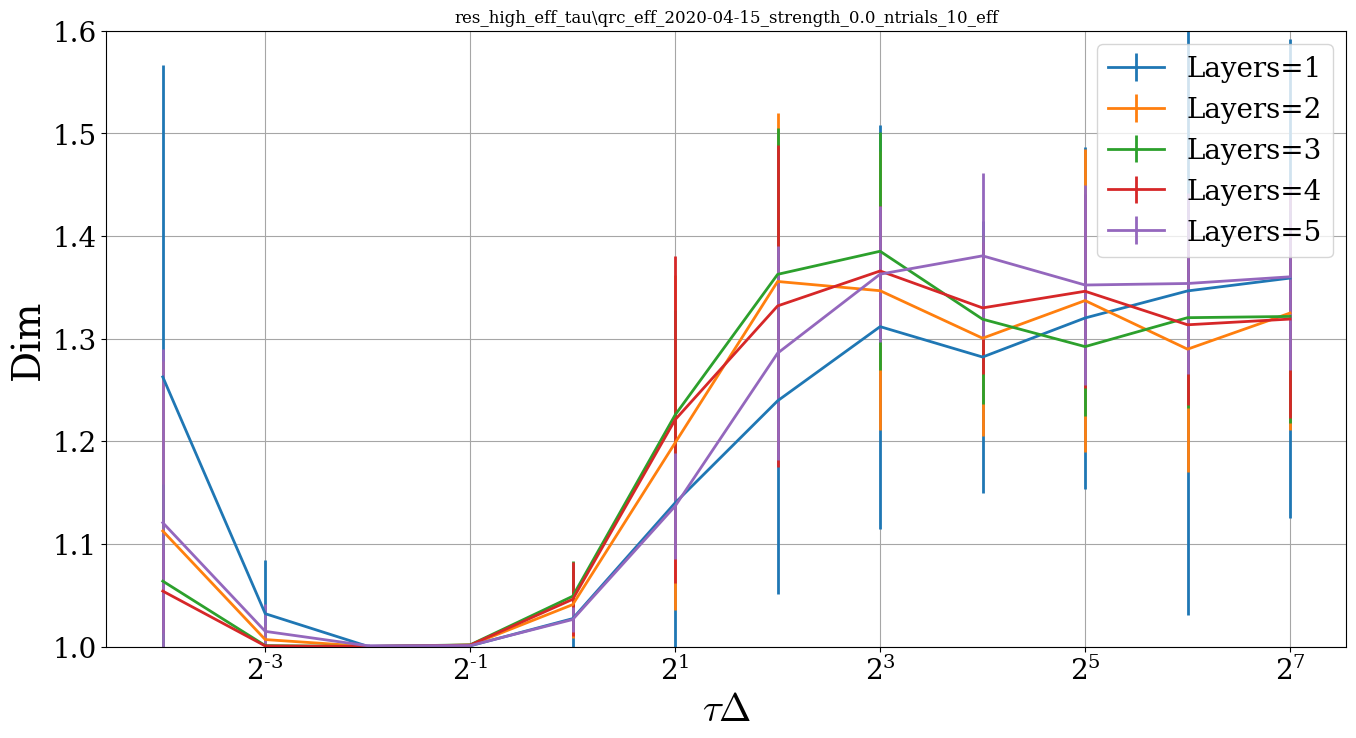
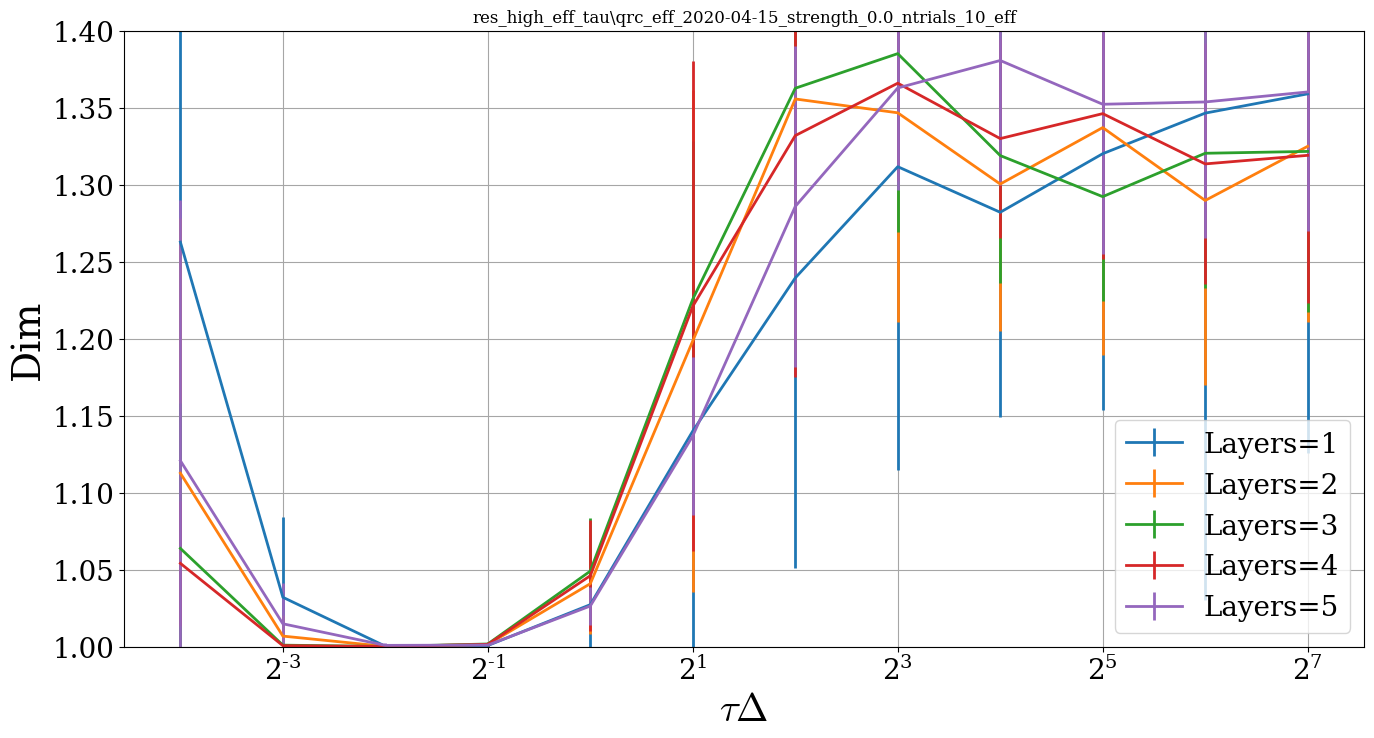
Update code to fix calculation of effective dimension

diff --git a/source/esp_highorder_tau_change.py b/source/esp_highorder_tau_change.py
@@ -22,12 +22,12 @@ from loginit import get_module_logger
 # layers = [n for n in range(1, 6)]
 # strengths = [0.0 0.1 0.3 0.5 0.7 0.9 1.0]
 
-def esp_job(qparams, nqrc, layer_strength, buffer, input_seq, state_trials, net_trials, send_end):
+def esp_job(qparams, nqrc, layer_strength, buffer, length, state_trials, net_trials, send_end):
     print('Start process layer={}, taudelta={}, virtual={}, Jdelta={}'.format(nqrc, qparams.tau_delta, qparams.virtual_nodes, qparams.max_coupling_energy))
     btime = int(time.time() * 1000.0)
     dPs, ldas = [], []
     for n in range(net_trials):
-        dP, lda = hqrc.esp_index(qparams, buffer, input_seq, nqrc, layer_strength, ranseed=n, state_trials=state_trials)
+        dP, lda = hqrc.esp_index(qparams, buffer, length, nqrc, layer_strength, ranseed=n, state_trials=state_trials)
         dPs.append(dP)
         ldas.append(lda)
 
@@ -62,8 +62,7 @@ if __name__  == '__main__':
     parser.add_argument('--strength', type=float, default=0.0)
     parser.add_argument('--virtuals', type=int, default=15)
 
-    parser.add_argument('--orders', type=str, default='10')
-    parser.add_argument('--basename', type=str, default='qrc_narma_echo')
+    parser.add_argument('--basename', type=str, default='qrc_echo')
     parser.add_argument('--savedir', type=str, default='res_high_echo_tau')
     args = parser.parse_args()
     print(args)
@@ -84,30 +83,22 @@ if __name__  == '__main__':
     
     layers = [int(x) for x in args.layers.split(',')]
     
-    orders = [int(x) for x in args.orders.split(',')]
-    data, target = gen.make_data_for_narma(length, orders=orders)
-    input_seq_org = np.array(data)
-    input_seq_org = input_seq_org.reshape(1, input_seq_org.shape[0])
-    
-
     # Evaluation
     timestamp = int(time.time() * 1000.0)
     now = datetime.datetime.now()
     datestr = now.strftime('{0:%Y-%m-%d-%H-%M-%S}'.format(now))
-    outbase = os.path.join(savedir, '{}_{}_strength_{}_V_{}_layers_{}_narma_{}_esp_trials_{}_{}'.format(\
-        basename, datestr, layer_strength, V, '_'.join([str(l) for l in layers]), \
-            '_'.join([str(o) for o in orders]), net_trials, state_trials))
+    outbase = os.path.join(savedir, '{}_{}_strength_{}_V_{}_layers_{}_esp_trials_{}_{}'.format(\
+        basename, datestr, layer_strength, V, '_'.join([str(l) for l in layers]), net_trials, state_trials))
     
     if os.path.isfile(savedir) == False:
         jobs, pipels = [], []
         for nqrc in layers:
-            input_seq = np.tile(input_seq_org, (nqrc, 1))
             for tau_delta in taudeltas:
                 recv_end, send_end = multiprocessing.Pipe(False)
                 qparams = qrc.QRCParams(hidden_unit_count=hidden_unit_count, max_coupling_energy=max_coupling_energy,\
                     trotter_step=trotter_step, beta=beta, virtual_nodes=V, tau_delta=tau_delta, init_rho=init_rho)
                 p = multiprocessing.Process(target=esp_job, \
-                    args=(qparams, nqrc, layer_strength, buffer, input_seq, net_trials, state_trials, send_end))
+                    args=(qparams, nqrc, layer_strength, buffer, length, net_trials, state_trials, send_end))
                 jobs.append(p)
                 pipels.append(recv_end)
 

diff --git a/source/cal_eff_dim.py b/source/cal_eff_dim.py
@@ -14,11 +14,11 @@ import qrc
 import gendata as gen
 import utils
 
-def eff_job(qparams, P, T, input_seq_ls, Ntrials, send_end):
+def eff_job(qparams, buffer, length, P, Ntrials, send_end):
     esp_ls = []
     print('Start process taudelta={}, virtual={}, Jdelta={}'.format(qparams.tau_delta, qparams.virtual_nodes, qparams.max_coupling_energy))
     for n in range(Ntrials):
-         esp_val = qrc.effective_dim(qparams, P, T, input_seq_ls)
+         esp_val = qrc.effective_dim(qparams, buffer, length, ranseed=n, P=P)
          esp_ls.append(esp_val)
 
     mean_esp = np.mean(esp_ls)
@@ -36,15 +36,13 @@ if __name__  == '__main__':
     parser.add_argument('--trotter', type=int, default=10)
     parser.add_argument('--beta', type=float, default=1e-14)
 
-    parser.add_argument('--vallen', type=int, default=500)
+    parser.add_argument('--length', type=int, default=1000)
     parser.add_argument('--buffer', type=int, default=500)
     parser.add_argument('--pindex', type=int, default=10)
     parser.add_argument('--ntrials', type=int, default=1)
     parser.add_argument('--nums', type=int, default=1)
     
     parser.add_argument('--resolution', type=int, default=64)
-
-    parser.add_argument('--orders', type=str, default='10')
     parser.add_argument('--basename', type=str, default='qrc_effective')
     parser.add_argument('--savedir', type=str, default='reseff')
     args = parser.parse_args()
@@ -52,7 +50,7 @@ if __name__  == '__main__':
 
     hidden_unit_count, max_coupling_energy, trotter_step, beta =\
         args.units, args.coupling, args.trotter, args.beta
-    val_len, pindex, buffer = args.vallen, args.pindex, args.buffer
+    length, pindex, buffer = args.length, args.pindex, args.buffer
     Ntrials = args.ntrials
     nums = args.nums
 
@@ -66,16 +64,11 @@ if __name__  == '__main__':
     virtuals = [5*n for n in range(1, nums+1)]
     virtuals.insert(0, 1)
 
-    orders = [int(x) for x in args.orders.split(',')]
-    data, target = gen.make_data_for_narma(buffer + val_len, orders=orders)
-
-    input_seq_ls = np.array(  [ data[: buffer + val_len] ] )
-    
     # Evaluation
     timestamp = int(time.time() * 1000.0)
     now = datetime.datetime.now()
     datestr = now.strftime('{0:%Y-%m-%d-%H-%M-%S}'.format(now))
-    outbase = os.path.join(savedir, '{}_{}_order_{}'.format(basename, datestr, '_'.join([str(o) for o in orders])))
+    outbase = os.path.join(savedir, '{}_{}'.format(basename, datestr))
 
     if True:
         if os.path.isfile(savedir) == False:
@@ -87,7 +80,7 @@ if __name__  == '__main__':
                     qparams = qrc.QRCParams(hidden_unit_count=hidden_unit_count, max_coupling_energy=max_coupling_energy,\
                         trotter_step=trotter_step, beta=beta, virtual_nodes=V, tau_delta=tdelta, init_rho=0)
                     
-                    p = multiprocessing.Process(target=eff_job, args=(qparams, pindex, buffer, input_seq_ls, Ntrials, send_end))
+                    p = multiprocessing.Process(target=eff_job, args=(qparams, buffer, length, pindex, Ntrials, send_end))
                     jobs.append(p)
                     pipels.append(recv_end)
 

diff --git a/source/highorder_qrc.py b/source/highorder_qrc.py
@@ -183,8 +183,7 @@ class HighorderQuantumReservoirComputing(object):
                 self.current_states[i] = np.array(current_state)
                 local_rhos[i] = rho
 
-            # only use state of the last qrc to train
-            state = np.array(self.current_states)
+            state = np.array(self.current_states.copy())
             state_list.append(state.flatten())
 
             # update previous states
@@ -377,13 +376,19 @@ def effective_dim(qparams, buffer, length, nqrc, layer_strength, ranseed, Ntrial
                 locls.append(np.mean(ri*rj))
         locls = np.array(locls).reshape(D, D)
         w, v = LA.eig(locls)
+        #print(w)
         w = np.abs(w) / np.abs(w).sum()
         effdims.append(1.0 / np.power(w, 2).sum())
     return np.mean(effdims), np.std(effdims)
 
-def esp_index(qparams, buffer, input_seq, nqrc, layer_strength, \
-        ranseed, state_trials, one_input=False):
-    input_seq = np.array(input_seq)
+def esp_index(qparams, buffer, length, nqrc, layer_strength, ranseed, state_trials, one_input=False):
+    if ranseed >= 0:
+        np.random.seed(seed=ranseed)
+
+    data = np.random.rand(length)
+    input_seq = np.array(data)
+    input_seq = np.tile(input_seq, (nqrc, 1))
+
     # Initialize the reservoir to zero state - density matrix
     model = HighorderQuantumReservoirComputing(nqrc, layer_strength, one_input)
     x0_state_list = model.init_forward(qparams, input_seq, init_rs = True, ranseed = ranseed)
@@ -392,9 +397,8 @@ def esp_index(qparams, buffer, input_seq, nqrc, layer_strength, \
     for i in range(state_trials):
         # Initialzie the reservoir to a random initial state
         # Keep same coupling configuration
-        
         model.gen_rand_rhos(ranseed = i + 300000)
-        z0_state_list = model.init_forward(qparams, input_seq, init_rs = False, ranseed = ranseed)
+        z0_state_list = model.init_forward(qparams, input_seq, init_rs = False, ranseed = i + 200000)
         L, D = z0_state_list.shape
         # L = Length of time series
         # D = Number of layers x Number of virtual nodes x Number of qubits

diff --git a/source/qrc.py b/source/qrc.py
@@ -353,7 +353,7 @@ def memory_function(taskname, qparams, train_len, val_len, buffer, dlist, ransee
     
     return np.array(list(zip(dlist, MFlist, MFstds, train_list, val_list)))
 
-def esp_index(qparams, P, T, input_seq_ls, ranseed):
+def esp_index(qparams, P, buffer, input_seq_ls, ranseed):
     input_seq_ls = np.array(input_seq_ls)
     
     # Initialzie the reservoir to zero state - density matrix
@@ -385,27 +385,34 @@ def esp_index(qparams, P, T, input_seq_ls, ranseed):
     print('dP={}'.format(dP/P))
     return dP/P
 
-def effective_dim(qparams, P, T, input_seq_ls):
+def effective_dim(qparams, buffer, length, ranseed, P):
     # Calculate effective dimension for reservoir
     from numpy import linalg as LA
 
-    input_seq_ls = np.array(input_seq_ls)
-    model = QuantumReservoirComputing()
+    if ranseed >= 0:
+        np.random.seed(seed=ranseed)
 
+    data = np.random.rand(length)
+    input_seq_ls = np.array([ data ])
+
+    model = QuantumReservoirComputing()
     effdim = []
     for p in range(P):
+        ranseed_net = ranseed
+        if ranseed >= 0:
+            ranseed_net = (ranseed + 11000) * (p + 1)
         corrsum = []
-        state_list = model.init_forward(qparams, input_seq_ls, ranseed=-1, init_rs=True)
+        state_list = model.init_forward(qparams, input_seq_ls, ranseed=ranseed_net, init_rs=True)
         N, L, D = state_list.shape
         # N = Number of input list
         # L = Length of time series
         # D = Number of virtual nodes x Number of qubits
-        for n in range(N):
+        for n in range(1):
             locls = []
             for i in range(D):
                 for j in range(D):
-                    ri = state_list[n, :, i]
-                    rj = state_list[n, :, j]
+                    ri = state_list[n, buffer:, i]
+                    rj = state_list[n, buffer:, j]
                     locls.append(np.mean(ri*rj))
             locls = np.array(locls).reshape(D, D)
             corrsum.append(locls)
